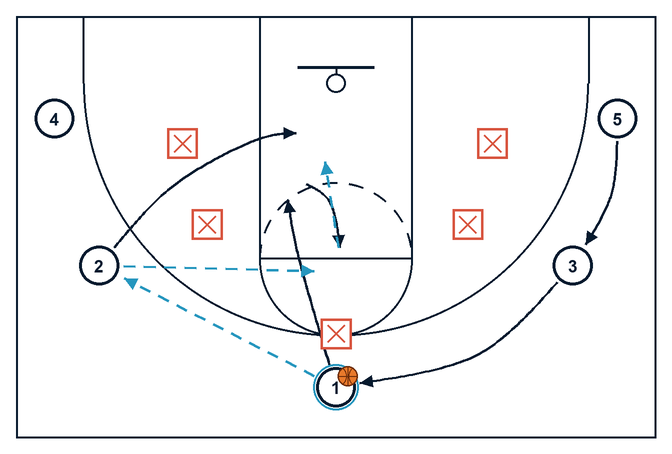
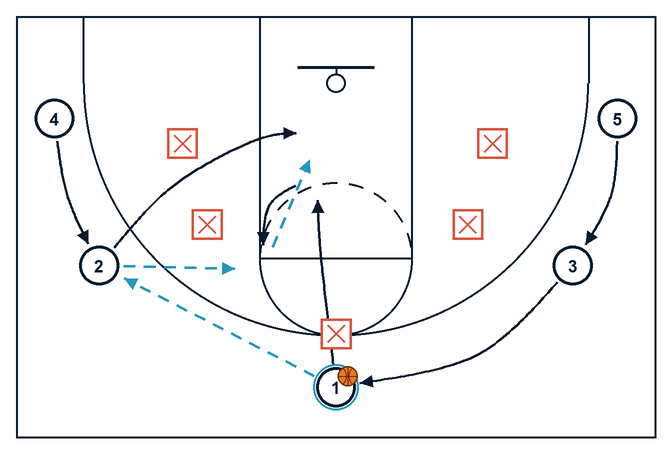
Laker Cut: 1 flashes to the elbow; 4 fills the wing on 2's cut
- 1 posts at the ball-side (left) elbow instead of the middle of the
  free-throw line.
- 4 rotates up from the corner into 2's wing spot as 2 makes the Laker cut.
- Captions, steps and coaching points updated to match.

diff --git a/index.html b/index.html
@@ -3654,19 +3654,19 @@ const PLAYS = [
     ],
     drills:["rrL3", "rrL1", "rrDrills13"] },
   { id:"laker-cut", name:"Laker Cut", side:"offense", tag:"Read & React · Layer 2",
-    summary:"It starts like Pass and Cut, but the cutter flashes back up to the high key, gets the ball and hits the wing on his Laker cut for a layup.",
+    summary:"It starts like Pass and Cut, but the cutter flashes back up to the elbow, gets the ball and hits the wing on his Laker cut for a layup.",
     steps:[
       "1 has the ball at the top. 2 and 3 are on the wings, 4 and 5 are in the corners.",
       "1 passes to 2 and cuts into the paint. As he cuts, 3 fills the top and 5 fills the right wing, just like Pass and Cut.",
-      "As soon as 1 is in the paint, he flashes back up to the high key.",
-      "2 passes to 1 at the high key.",
-      "2 makes the Laker cut: he cuts hard to the basket right after his pass.",
+      "As soon as 1 is in the paint, he flashes back up to the elbow: the left side of the free-throw line, on the ball side.",
+      "2 passes to 1 at the elbow.",
+      "2 makes the Laker cut: he cuts hard to the basket right after his pass. As he cuts, 4 rotates up from the corner into 2's spot on the wing.",
       "1 passes to 2, and 2 makes the layup. Then start it over from the top.",
     ],
     points:[
-      "1: show your hands at the high key so 2 has a target.",
+      "1: show your hands at the elbow so 2 has a target.",
       "2: the moment the ball leaves your hands, cut. The pass and the cut are one move.",
-      "Cut to the rim, not the corner, and keep your eyes on the ball.",
+      "Cut to the rim, not the corner, and keep your eyes on the ball. 4: fill the wing so the floor stays spaced.",
       "1: hit the cutter in stride, out in front of him, so he can lay it in without stopping.",
     ],
     drills:["rrL2", "rrL1", "rrDrills13"] },

diff --git a/make-plays.py b/make-plays.py
@@ -96,7 +96,8 @@ PLAYS = [
     },
     {
         # Pass and Cut start, but 1 stops his cut in the paint and flashes to
-        # the high key; 2 passes to him, makes the Laker cut and gets it back
+        # the ball-side elbow (left end of the free-throw line); 2 passes to
+        # him, makes the Laker cut (4 fills his wing spot) and gets it back
         # for the layup.
         "slug": "laker-cut",
         "title": "Laker Cut",
@@ -105,12 +106,13 @@ PLAYS = [
         "length": 8.6,
         "events": [
             PASS_AND_CUT[0],                                   # 1 passes to 2
-            {"move": 1, "t": (1.6, 3.0), "path": [(25, 29), (22, 18.5), (21, 12.5)]},
+            {"move": 1, "t": (1.6, 3.0), "path": [(25, 29), (23.8, 18.5), (23.5, 12.5)]},
             PASS_AND_CUT[2],                                   # 3 fills the top
             PASS_AND_CUT[3],                                   # 5 fills the wing
-            {"move": 1, "t": (3.0, 3.9), "path": [(21, 12.5), (24.5, 14.5), (25.5, 20)]},
+            {"move": 1, "t": (3.0, 3.9), "path": [(23.5, 12.5), (19.8, 14.8), (19.3, 19.8)]},
             {"pass": (2, 1), "t": (4.0, 4.6)},
             {"move": 2, "t": (4.7, 6.0), "path": [(6.5, 19.5), (12, 13.5), (19, 9.6), (23.8, 9.2)]},
+            {"move": 4, "t": (4.9, 6.2), "path": [(3, 8), (4, 14), (6.5, 19.5)]},
             {"pass": (1, 2), "t": (5.6, 6.05)},
             {"move": 2, "t": (6.05, 6.4), "path": [(23.8, 9.2), (24.5, 7.8)]},
             {"shot": 2, "t": (6.3, 6.8)},
@@ -119,9 +121,9 @@ PLAYS = [
             (0.0, "1 has the ball at the top"),
             (0.8, "1 passes to 2"),
             (1.6, "1 cuts into the paint. 3 fills the top, 5 fills the wing"),
-            (3.0, "1 flashes up to the high key"),
-            (4.0, "2 passes to 1 at the high key"),
-            (4.7, "2 makes the Laker cut to the basket"),
+            (3.0, "1 flashes up to the elbow"),
+            (4.0, "2 passes to 1 at the elbow"),
+            (4.7, "2 makes the Laker cut. 4 fills 2's spot on the wing"),
             (5.6, "1 hits 2 for the layup!"),
         ],
     },
